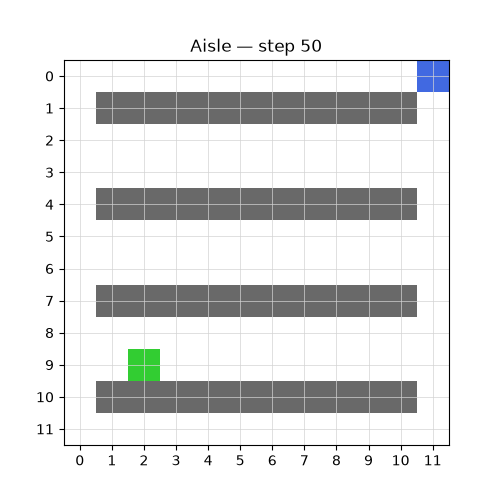
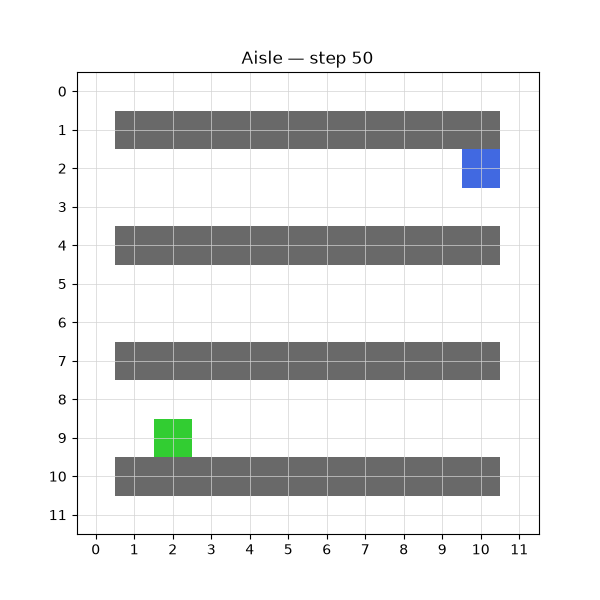
Fix hybrid DDQN evaluation and visualization

diff --git a/experiments/evaluation.py b/experiments/evaluation.py
@@ -1,7 +1,7 @@
 import sys
 import os
 import numpy as np
-
+import torch
 # Force the project root to the absolute front of Python's path list
 project_root = os.path.abspath(os.path.join(os.path.dirname(__file__), '..'))
 sys.path.insert(0, project_root)
@@ -11,7 +11,7 @@ from src.environment.state_augmentation import StateAugmenter
 from src.astar.astar_planner import AStarPlanner
 from src.astar.replanner import DynamicReplanner
 from src.hybrid.waypoint_manager import WaypointManager
-from src.ddqn.agent import DDQNAgent
+from src.ddqn.new_agent import DDQNAgent
 from src.hybrid.hybrid_agent import HybridAgent
 
 def evaluate_model(model_path, is_hybrid=True, num_episodes=50):
@@ -25,15 +25,22 @@ def evaluate_model(model_path, is_hybrid=True, num_episodes=50):
         max_dynamic_obstacles=4
     )
     
-    agent = DDQNAgent(state_dim=51, action_dim=8)
+    agent = DDQNAgent(state_dim=51, num_actions=8)
     
-    # Load the trained weights
+    # Load the trained network weights
     if os.path.exists(model_path):
-        agent.load(model_path)
+        checkpoint = torch.load(model_path, map_location=agent.device)
+        agent.online_network.load_state_dict(checkpoint)
+        agent.target_network.load_state_dict(checkpoint)
+        agent.target_network.eval()
+
+        # Evaluation should use pure exploitation
+        agent.epsilon = 0.0
+
+        print("✅ Trained DDQN weights loaded successfully.")
     else:
         print(f"Error: Checkpoint not found at {model_path}")
         return
-
     if is_hybrid:
         planner = AStarPlanner(env._static_grid)
         replanner = DynamicReplanner(planner)
@@ -82,10 +89,10 @@ def evaluate_model(model_path, is_hybrid=True, num_episodes=50):
             
             # Epsilon is forced to 0.0 for pure exploitation (testing)
             if is_hybrid:
-                action = hybrid_agent.get_action(state, epsilon=0.0)
+                action = hybrid_agent.get_action(state)
             else:
-                action = agent.select_action(state, epsilon=0.0)
-            
+                action = agent.select_action(state)
+                
             next_obs, reward, terminated, truncated, info = env.step(action)
             done = terminated or truncated
             step_count += 1

diff --git a/experiments/visualize_pro.py b/experiments/visualize_pro.py
@@ -2,7 +2,7 @@ import sys
 import os
 import pygame
 import numpy as np
-
+import torch
 # Force the project root to the absolute front of Python's path list
 project_root = os.path.abspath(os.path.join(os.path.dirname(__file__), '..'))
 sys.path.insert(0, project_root)
@@ -12,7 +12,7 @@ from src.environment.state_augmentation import StateAugmenter
 from src.astar.astar_planner import AStarPlanner
 from src.astar.replanner import DynamicReplanner
 from src.hybrid.waypoint_manager import WaypointManager
-from src.ddqn.agent import DDQNAgent
+from src.ddqn.new_agent import DDQNAgent
 from src.hybrid.hybrid_agent import HybridAgent
 
 # --- Advanced Pygame Configuration ---
@@ -85,10 +85,15 @@ def run_pro_visualizer():
     
     env = WarehouseEnv(config="open")
     state_builder = StateAugmenter(env._static_grid, local_radius=2, max_dynamic_obstacles=4)
-    agent = DDQNAgent(state_dim=51, action_dim=8)
+    agent = DDQNAgent(state_dim=51, num_actions=8)
     
     if os.path.exists(model_path):
-        agent.load(model_path)
+        checkpoint = torch.load(model_path, map_location=agent.device)
+        agent.online_network.load_state_dict(checkpoint)
+        agent.target_network.load_state_dict(checkpoint)
+        agent.target_network.eval()
+        agent.epsilon = 0.0
+        print("✅ Hybrid DDQN checkpoint loaded successfully.")
     else:
         print(f"Error: {model_path} not found.")
         return

diff --git a/src/hybrid/hybrid_agent.py b/src/hybrid/hybrid_agent.py
@@ -65,5 +65,4 @@ class HybridAgent:
         return self.waypoint_manager.get_current_waypoint()
 
     def get_action(self, state, epsilon: float = 0.0) -> int:
-        """Queries the DDQN for local action with epsilon-greedy exploration."""
-        return self.ddqn.select_action(state, epsilon=epsilon)
+        return self.ddqn.select_action(state)
